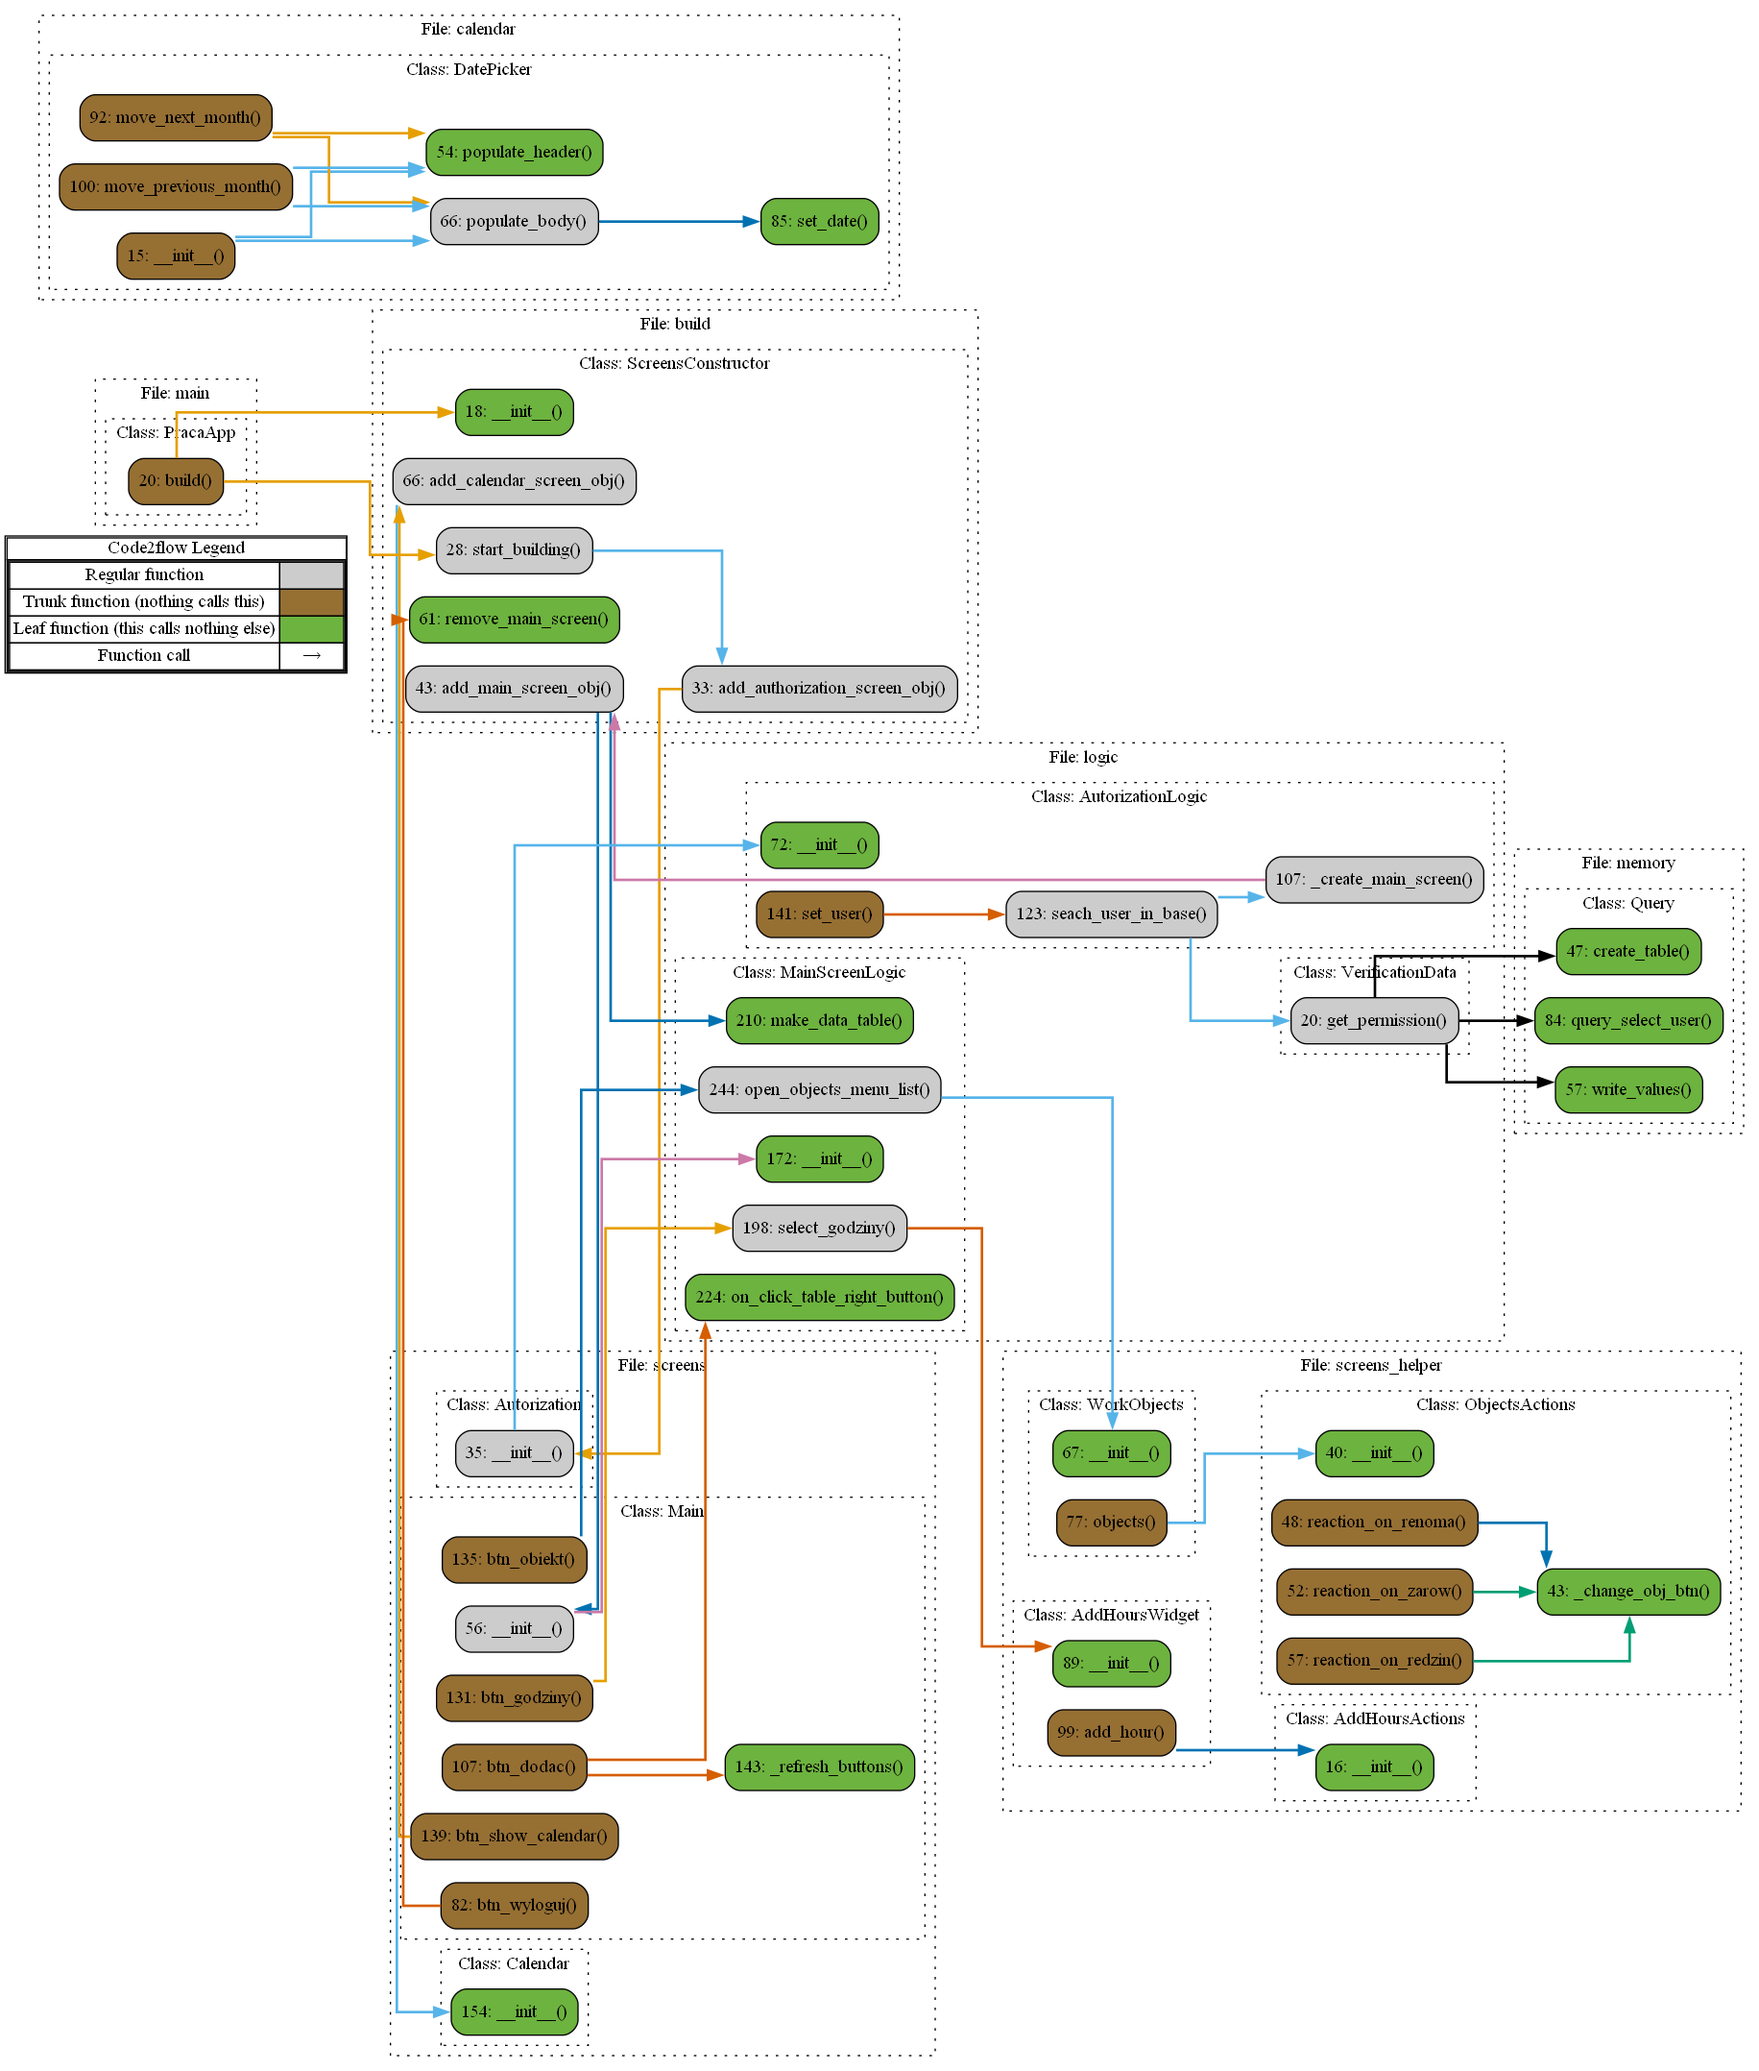
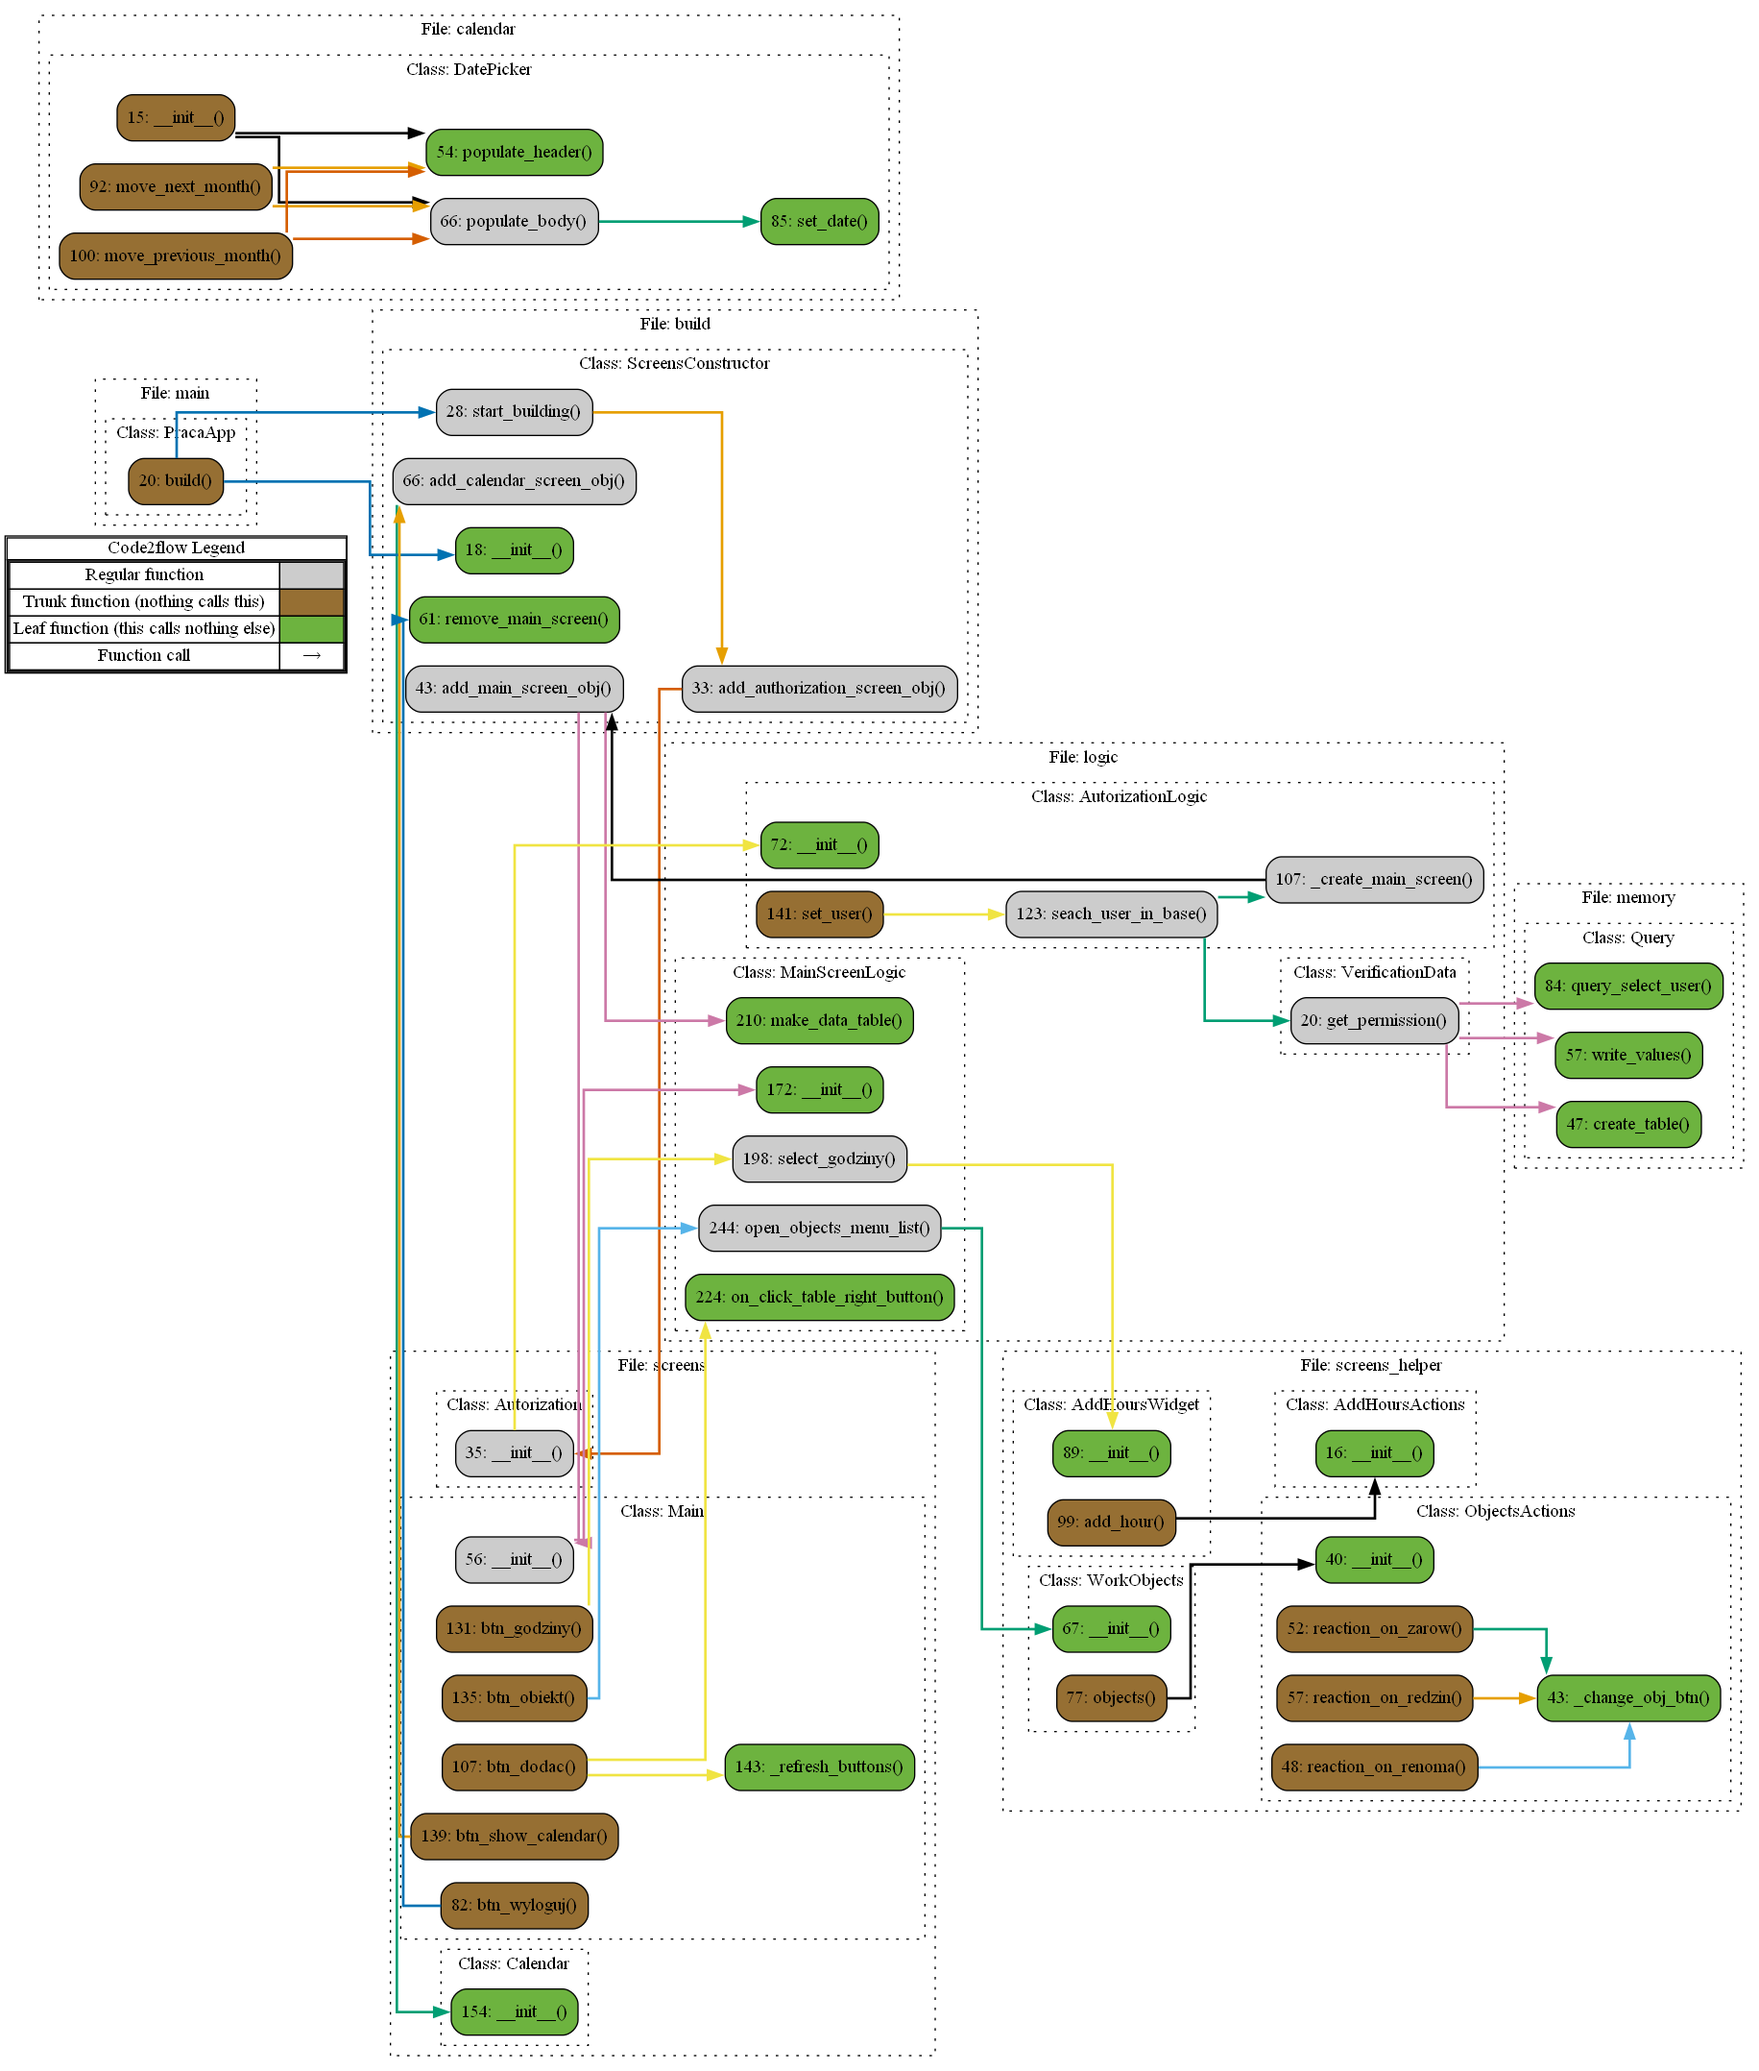
v0.0.43

diff --git a/dev/view/screens_helper.py b/dev/view/screens_helper.py
@@ -18,47 +18,56 @@ class AddHoursActions:
         self.hours_progress = hours_progress
         self.main_screen = main_screen
 
-    def add_8_godzin(self):
+    def add_8_godzin(self, value = 8):
         dev.logger.info('screens_helper.py: class AddHoursActions() add_8_godzin()')
         self.widget.ids.hours_line_data.value = 8
+        self.widget.ids.current_hours_value.text = str(int(value))
 
-    def add_10_godzin(self):
+    def add_10_godzin(self, value = 10):
         dev.logger.info('screens_helper.py: class AddHoursActions() add_10_godzin()')
         self.widget.ids.hours_line_data.value = 10
+        self.widget.ids.current_hours_value.text = str(int(value))
 
-    def add_12_godzin(self):
+    def add_12_godzin(self, value = 12):
         dev.logger.info('screens_helper.py: class AddHoursActions() add_12_godzin()')
         self.widget.ids.hours_line_data.value = 12
+        self.widget.ids.current_hours_value.text = str(int(value))
 
     def press_ok(self):
         dev.logger.info('screens_helper.py: class AddHoursActions() press_ok()')
         self.main_screen.ids.godziny.icon = ''
         self.main_screen.ids.godziny.text = str(int(self.hours_progress))
 
+    def set_current_value(self, value):
+        dev.logger.info('screens_helper.py: class AddHoursActions() set_current_value()')
+        self.widget.ids.current_hours_value.text = str(int(value))
 
 class ObjectsActions:
-    def __init__(self, main_screen) -> None:
+    def __init__(self, widget, main_screen) -> None:
+        self.widget = widget
         self.main_screen = main_screen
 
     def _change_obj_btn(self, value):
         dev.logger.info('screens_helper.py: class ObjectsActions() _change_obj_btn()')
-        self.main_screen.ids.obiekt.icon = ''
-        self.main_screen.ids.obiekt.text = value       
+        if value != '':
+            self.main_screen.ids.obiekt.icon = ''
+            self.main_screen.ids.obiekt.text = value       
     
     def reaction_on_renoma(self):
         dev.logger.info('screens_helper.py: class ObjectsActions() reaction_on_renoma()')
-        self._change_obj_btn('Renoma')
+        self.widget.ids.current_object_value.text = 'Renoma'
 
     def reaction_on_zarow(self):
         dev.logger.info('screens_helper.py: class ObjectsActions() reaction_on_zarow()')
-        self._change_obj_btn('Żarów')
-        print('Żarów')
+        self.widget.ids.current_object_value.text = 'Żarów'
 
     def reaction_on_redzin(self):
         dev.logger.info('screens_helper.py: class ObjectsActions() reaction_on_redzin()')
-        self._change_obj_btn('Rędzin')
-        print('Rędzin')
-
+        self.widget.ids.current_object_value.text = 'Rędzin'
+    
+    def press_ok(self):
+        print(self.widget.ids.current_object_value.text)
+        self._change_obj_btn(self.widget.ids.current_object_value.text)
 
 class WorkObjects(MDBoxLayout):
     widget_height = NumericProperty()
@@ -68,17 +77,18 @@ class WorkObjects(MDBoxLayout):
         super().__init__(*args, **kwargs)
         self.main_screen = main_screen
         self.main_screen_logic = main_screen_logic
-        self._objects_reaction = None
+        self._objects = None
 
         self.widget_height = Window.size[0]*0.7
         self.widget_width = Window.size[1]*0.5
 
     @property
     def objects(self):
-        self._objects_reaction = ObjectsActions(
+        self._objects = ObjectsActions(
+            widget = self,
             main_screen = self.main_screen,
         )
-        return self._objects_reaction
+        return self._objects
 
 
 class AddHoursWidget(MDBoxLayout):

diff --git a/dev/view/screens.py b/dev/view/screens.py
@@ -10,6 +10,7 @@ from kivymd.uix.screen import MDScreen
 import dev
 from dev.view.logic import AutorizationLogic, MainScreenLogic
 from dev.view.screens_helper import TabelItem
+from dev.view.screens_calendar import CalendarLogic
 
 
 class Autorization(MDScreen):
@@ -106,9 +107,6 @@ class Main(MDScreen):
 
     def btn_dodac(self):
         dev.logger.info('screens.py: class Main(MDScreen) btn_dodac()')
-        print(self.ids.godziny.text)
-        print(self.ids.obiekt.text)
-        print(self.ids.date.text)
 
         if self.ids.godziny.text != 'Godziny' and \
             self.ids.obiekt.text != 'Obiekt' and \
@@ -157,6 +155,10 @@ class Calendar(MDScreen):
         self.screen_manager = screen_manager
         self.screen_constructor = screen_constructor
 
+        self.logic = CalendarLogic(
+            screen_manager = screen_manager,
+            screen_constructor = screen_constructor
+        )
 
 
 # def send_sms(phone_number, message):

diff --git a/dev/view/screens_calendar.py b/dev/view/screens_calendar.py
@@ -8,6 +8,7 @@ from kivy.uix.boxlayout import BoxLayout
 from kivy.uix.label import Label
 from kivymd.uix.button import MDRaisedButton
 
+import dev
 from dev.view.screens_helper import DateButton
 
 
@@ -104,3 +105,13 @@ class DatePicker(BoxLayout, EventDispatcher):
             self.date = date(self.date.year, self.date.month - 1, self.date.day)
         self.populate_header()
         self.populate_body()
+
+
+class CalendarLogic:
+    def __init__(self, screen_manager, screen_constructor) -> None:
+        dev.logger.info('screens_calendar.py: class CalendarLogic __init__()')
+        self.screen_manager = screen_manager
+        self.screen_constructor = screen_constructor
+
+    def back_from_calendar_to_main_screen(self):
+        dev.logger.info('screens_calendar.py: class CalendarLogic back_from_calendar_to_main_screen()')

diff --git a/dev/view/build.py b/dev/view/build.py
@@ -1,6 +1,5 @@
 import dev
 from dev.view.screens import Autorization, Main, Calendar
-from dev.view.calendar import DatePicker
 
 
 class ScreensConstructor:

diff --git a/dev/view/logic.py b/dev/view/logic.py
@@ -255,4 +255,3 @@ class MainScreenLogic:
                 content_cls = self.widgets
             )
         self.dialog_screen_to_set_object.open()
-
